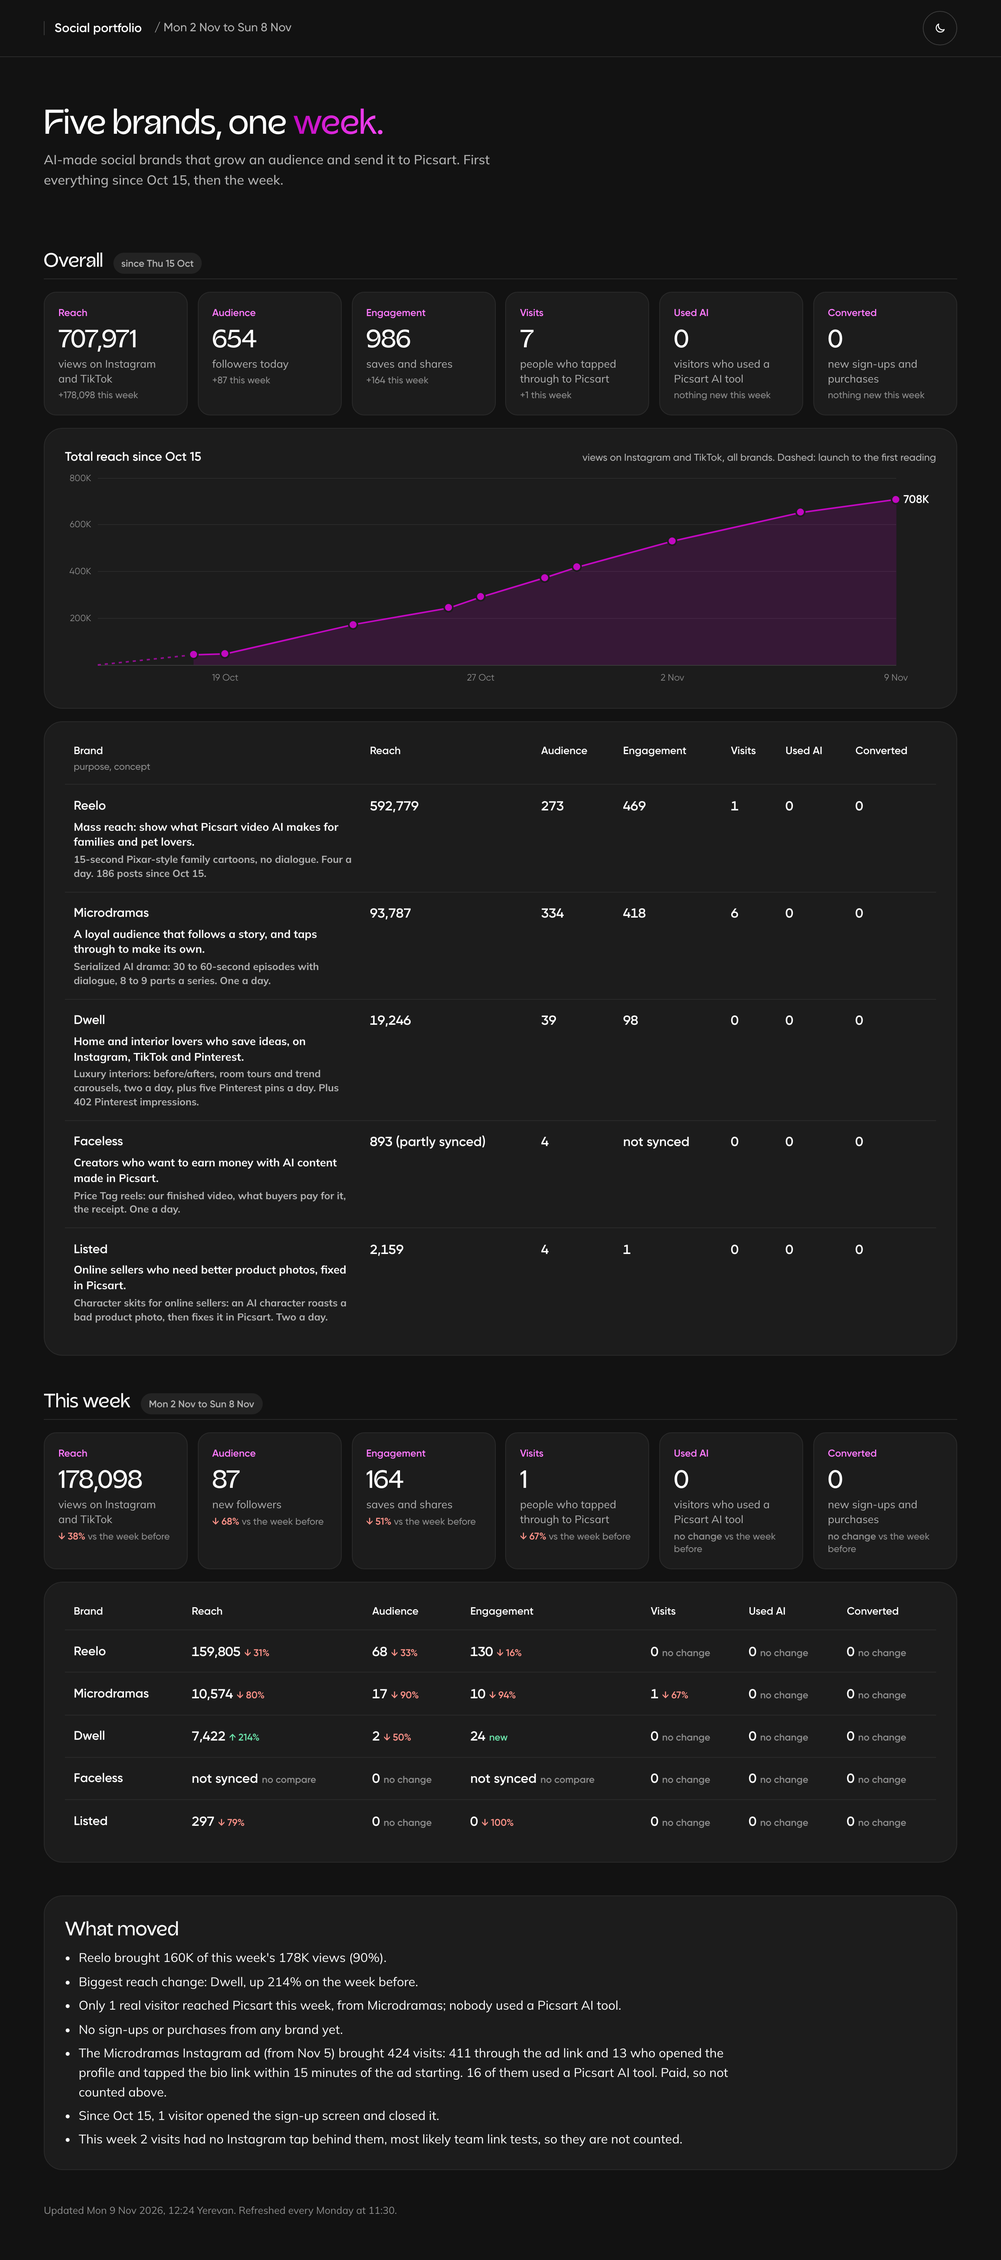
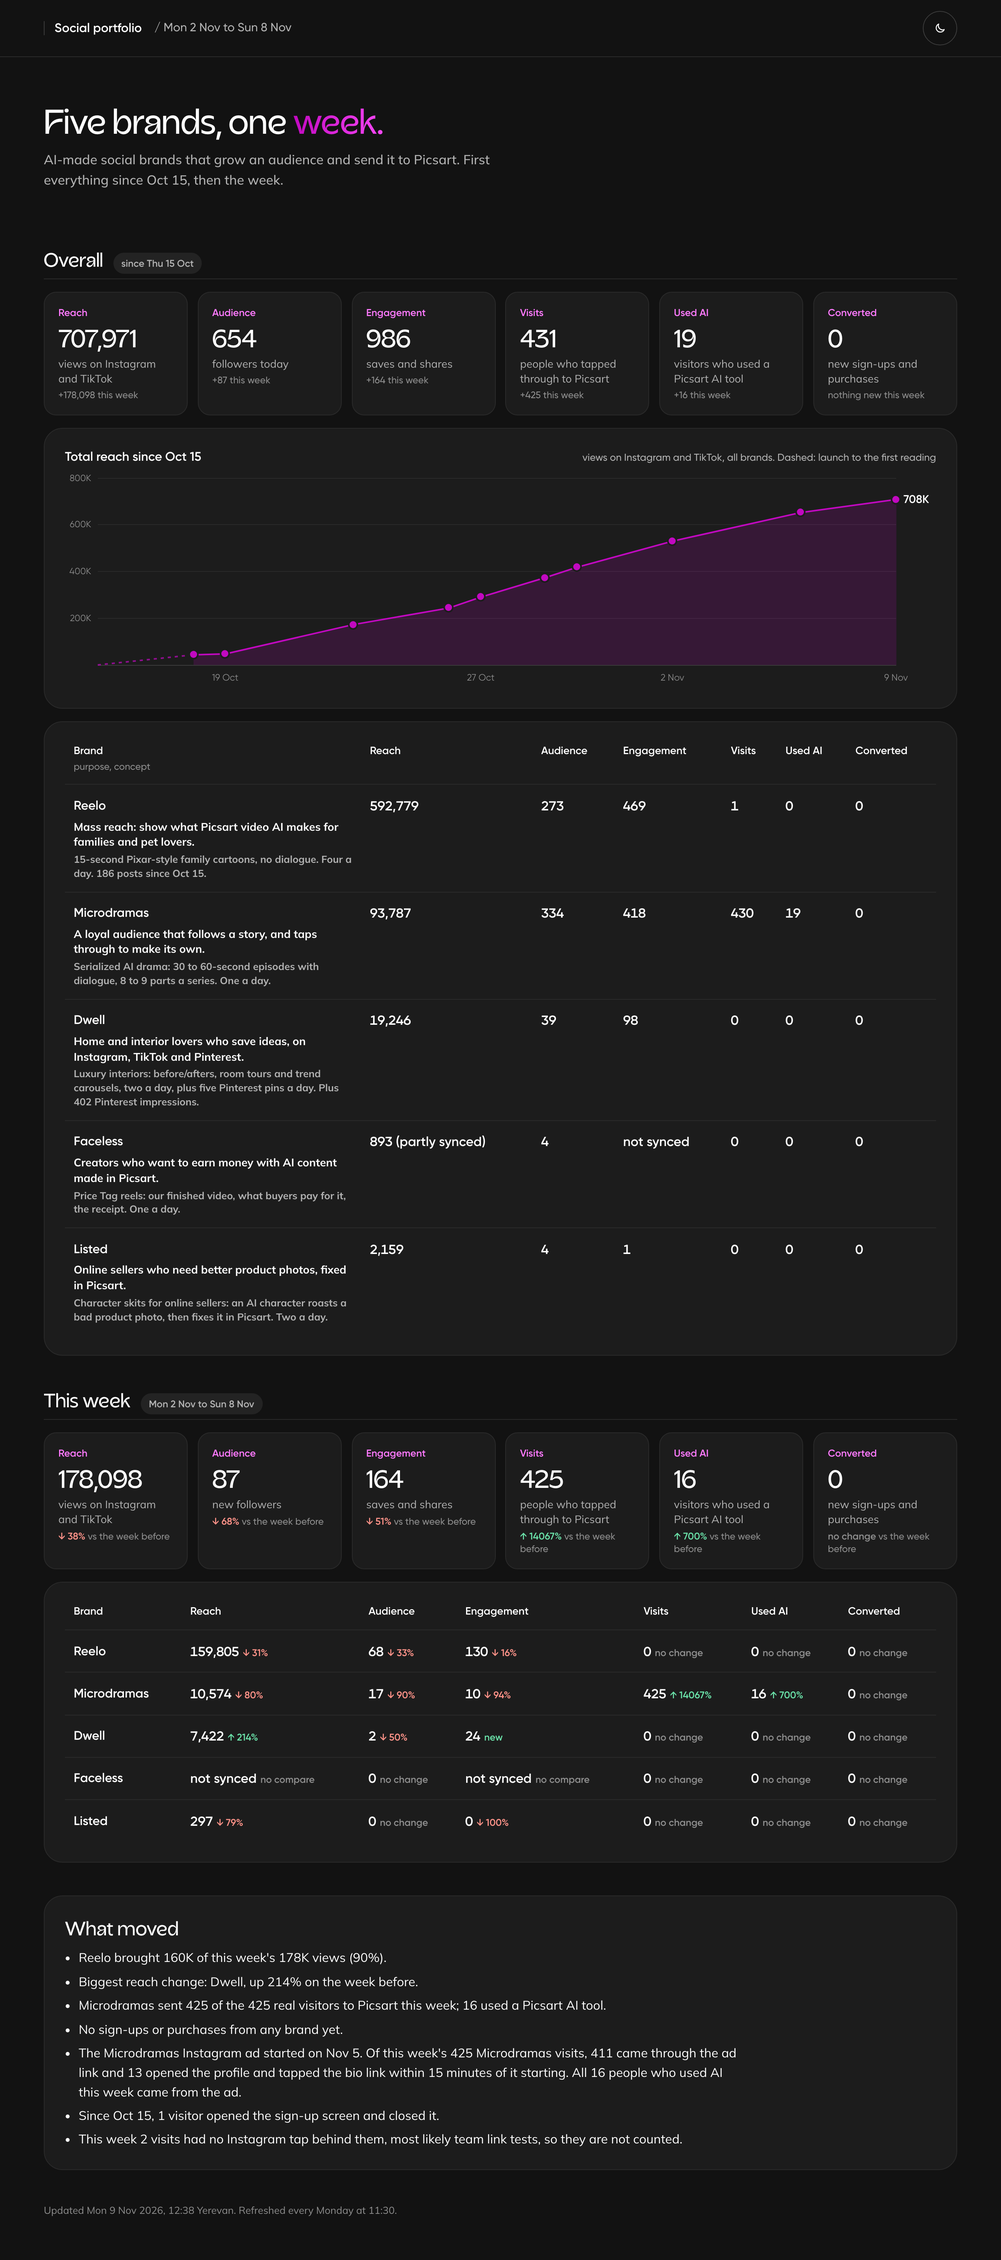
chore(portfolio): weekly refresh 2026-11-09

diff --git a/portfolio/index.html b/portfolio/index.html
@@ -110,7 +110,7 @@ small { display: block; color: var(--faint); font-family: var(--ui); font-weight
 
   <section class="sec" aria-labelledby="o-h">
     <div class="sec-head"><h2 id="o-h">Overall</h2><span class="pill">since Thu 15 Oct</span></div>
-    <div class="stats"><div class="stat"><span class="cls">Reach</span><b>707,971</b><span>views on Instagram and TikTok</span><small>+178,098 this week</small></div><div class="stat"><span class="cls">Audience</span><b>654</b><span>followers today</span><small>+87 this week</small></div><div class="stat"><span class="cls">Engagement</span><b>986</b><span>saves and shares</span><small>+164 this week</small></div><div class="stat"><span class="cls">Visits</span><b>7</b><span>people who tapped through to Picsart</span><small>+1 this week</small></div><div class="stat"><span class="cls">Used AI</span><b>0</b><span>visitors who used a Picsart AI tool</span><small>nothing new this week</small></div><div class="stat"><span class="cls">Converted</span><b>0</b><span>new sign-ups and purchases</span><small>nothing new this week</small></div></div>
+    <div class="stats"><div class="stat"><span class="cls">Reach</span><b>707,971</b><span>views on Instagram and TikTok</span><small>+178,098 this week</small></div><div class="stat"><span class="cls">Audience</span><b>654</b><span>followers today</span><small>+87 this week</small></div><div class="stat"><span class="cls">Engagement</span><b>986</b><span>saves and shares</span><small>+164 this week</small></div><div class="stat"><span class="cls">Visits</span><b>431</b><span>people who tapped through to Picsart</span><small>+425 this week</small></div><div class="stat"><span class="cls">Used AI</span><b>19</b><span>visitors who used a Picsart AI tool</span><small>+16 this week</small></div><div class="stat"><span class="cls">Converted</span><b>0</b><span>new sign-ups and purchases</span><small>nothing new this week</small></div></div>
     <div class="panel chart">
       <div class="chart-head"><h3>Total reach since Oct 15</h3><span class="legend">views on Instagram and TikTok, all brands. Dashed: launch to the first reading</span></div>
       <div class="lc"><div class="plot"><span class="gl" style="top:75.00%"><em>200K</em></span><span class="gl" style="top:50.00%"><em>400K</em></span><span class="gl" style="top:25.00%"><em>600K</em></span><span class="gl" style="top:0.00%"><em>800K</em></span><svg viewBox="0 0 100 100" preserveAspectRatio="none" aria-hidden="true"><polygon points="12.00,100 12.00,94.57 16.00,94.08 32.00,78.43 44.00,69.54 48.00,63.68 56.00,53.35 60.00,47.79 72.00,33.77 88.00,18.51 100.00,11.50 100,100" class="area"/><line x1="0" y1="100" x2="12.00" y2="94.57" class="gap"/><polyline points="12.00,94.57 16.00,94.08 32.00,78.43 44.00,69.54 48.00,63.68 56.00,53.35 60.00,47.79 72.00,33.77 88.00,18.51 100.00,11.50" class="line"/></svg><i class="pt" style="left:12.00%;top:94.57%" title="Sun 18 Oct: 43,455 views since Oct 15"></i><i class="pt" style="left:16.00%;top:94.08%" title="Mon 19 Oct: 47,382 views since Oct 15"></i><i class="pt" style="left:32.00%;top:78.43%" title="Fri 23 Oct: 172,542 views since Oct 15"></i><i class="pt" style="left:44.00%;top:69.54%" title="Mon 26 Oct: 243,696 views since Oct 15"></i><i class="pt" style="left:48.00%;top:63.68%" title="Tue 27 Oct: 290,562 views since Oct 15"></i><i class="pt" style="left:56.00%;top:53.35%" title="Thu 29 Oct: 373,202 views since Oct 15"></i><i class="pt" style="left:60.00%;top:47.79%" title="Fri 30 Oct: 417,714 views since Oct 15"></i><i class="pt" style="left:72.00%;top:33.77%" title="Mon 2 Nov: 529,873 views since Oct 15"></i><i class="pt" style="left:88.00%;top:18.51%" title="Fri 6 Nov: 651,929 views since Oct 15"></i><i class="pt" style="left:100.00%;top:11.50%" title="Mon 9 Nov: 707,971 views since Oct 15"></i><b class="last" style="left:100.00%;top:11.50%">708K</b></div><div class="xl"><span style="left:16.00%">19 Oct</span><span style="left:48.00%">27 Oct</span><span style="left:72.00%">2 Nov</span><span style="left:100.00%">9 Nov</span></div></div>
@@ -118,25 +118,25 @@ small { display: block; color: var(--faint); font-family: var(--ui); font-weight
     <div class="panel tbl">
       <table class="pf pf-all">
         <thead><tr><th scope="col">Brand<small>purpose, concept</small></th><th scope="col">Reach</th><th scope="col">Audience</th><th scope="col">Engagement</th><th scope="col">Visits</th><th scope="col">Used AI</th><th scope="col">Converted</th></tr></thead>
-        <tbody><tr><th scope="row"><span class="bn">Reelo</span><span class="pp">Mass reach: show what Picsart video AI makes for families and pet lovers.</span><span class="cc">15-second Pixar-style family cartoons, no dialogue. Four a day. 186 posts since Oct 15.</span></th><td data-label="Reach"><b class="n">592,779</b></td><td data-label="Audience"><b class="n">273</b></td><td data-label="Engagement"><b class="n">469</b></td><td data-label="Visits"><b class="n">1</b></td><td data-label="Used AI"><b class="n">0</b></td><td data-label="Converted"><b class="n">0</b></td></tr><tr><th scope="row"><span class="bn">Microdramas</span><span class="pp">A loyal audience that follows a story, and taps through to make its own.</span><span class="cc">Serialized AI drama: 30 to 60-second episodes with dialogue, 8 to 9 parts a series. One a day. </span></th><td data-label="Reach"><b class="n">93,787</b></td><td data-label="Audience"><b class="n">334</b></td><td data-label="Engagement"><b class="n">418</b></td><td data-label="Visits"><b class="n">6</b></td><td data-label="Used AI"><b class="n">0</b></td><td data-label="Converted"><b class="n">0</b></td></tr><tr><th scope="row"><span class="bn">Dwell</span><span class="pp">Home and interior lovers who save ideas, on Instagram, TikTok and Pinterest.</span><span class="cc">Luxury interiors: before/afters, room tours and trend carousels, two a day, plus five Pinterest pins a day. Plus 402 Pinterest impressions. </span></th><td data-label="Reach"><b class="n">19,246</b></td><td data-label="Audience"><b class="n">39</b></td><td data-label="Engagement"><b class="n">98</b></td><td data-label="Visits"><b class="n">0</b></td><td data-label="Used AI"><b class="n">0</b></td><td data-label="Converted"><b class="n">0</b></td></tr><tr><th scope="row"><span class="bn">Faceless</span><span class="pp">Creators who want to earn money with AI content made in Picsart.</span><span class="cc">Price Tag reels: our finished video, what buyers pay for it, the receipt. One a day. </span></th><td data-label="Reach"><b class="n">893 (partly synced)</b></td><td data-label="Audience"><b class="n">4</b></td><td data-label="Engagement"><b class="n">not synced</b></td><td data-label="Visits"><b class="n">0</b></td><td data-label="Used AI"><b class="n">0</b></td><td data-label="Converted"><b class="n">0</b></td></tr><tr><th scope="row"><span class="bn">Listed</span><span class="pp">Online sellers who need better product photos, fixed in Picsart.</span><span class="cc">Character skits for online sellers: an AI character roasts a bad product photo, then fixes it in Picsart. Two a day. </span></th><td data-label="Reach"><b class="n">2,159</b></td><td data-label="Audience"><b class="n">4</b></td><td data-label="Engagement"><b class="n">1</b></td><td data-label="Visits"><b class="n">0</b></td><td data-label="Used AI"><b class="n">0</b></td><td data-label="Converted"><b class="n">0</b></td></tr></tbody>
+        <tbody><tr><th scope="row"><span class="bn">Reelo</span><span class="pp">Mass reach: show what Picsart video AI makes for families and pet lovers.</span><span class="cc">15-second Pixar-style family cartoons, no dialogue. Four a day. 186 posts since Oct 15.</span></th><td data-label="Reach"><b class="n">592,779</b></td><td data-label="Audience"><b class="n">273</b></td><td data-label="Engagement"><b class="n">469</b></td><td data-label="Visits"><b class="n">1</b></td><td data-label="Used AI"><b class="n">0</b></td><td data-label="Converted"><b class="n">0</b></td></tr><tr><th scope="row"><span class="bn">Microdramas</span><span class="pp">A loyal audience that follows a story, and taps through to make its own.</span><span class="cc">Serialized AI drama: 30 to 60-second episodes with dialogue, 8 to 9 parts a series. One a day. </span></th><td data-label="Reach"><b class="n">93,787</b></td><td data-label="Audience"><b class="n">334</b></td><td data-label="Engagement"><b class="n">418</b></td><td data-label="Visits"><b class="n">430</b></td><td data-label="Used AI"><b class="n">19</b></td><td data-label="Converted"><b class="n">0</b></td></tr><tr><th scope="row"><span class="bn">Dwell</span><span class="pp">Home and interior lovers who save ideas, on Instagram, TikTok and Pinterest.</span><span class="cc">Luxury interiors: before/afters, room tours and trend carousels, two a day, plus five Pinterest pins a day. Plus 402 Pinterest impressions. </span></th><td data-label="Reach"><b class="n">19,246</b></td><td data-label="Audience"><b class="n">39</b></td><td data-label="Engagement"><b class="n">98</b></td><td data-label="Visits"><b class="n">0</b></td><td data-label="Used AI"><b class="n">0</b></td><td data-label="Converted"><b class="n">0</b></td></tr><tr><th scope="row"><span class="bn">Faceless</span><span class="pp">Creators who want to earn money with AI content made in Picsart.</span><span class="cc">Price Tag reels: our finished video, what buyers pay for it, the receipt. One a day. </span></th><td data-label="Reach"><b class="n">893 (partly synced)</b></td><td data-label="Audience"><b class="n">4</b></td><td data-label="Engagement"><b class="n">not synced</b></td><td data-label="Visits"><b class="n">0</b></td><td data-label="Used AI"><b class="n">0</b></td><td data-label="Converted"><b class="n">0</b></td></tr><tr><th scope="row"><span class="bn">Listed</span><span class="pp">Online sellers who need better product photos, fixed in Picsart.</span><span class="cc">Character skits for online sellers: an AI character roasts a bad product photo, then fixes it in Picsart. Two a day. </span></th><td data-label="Reach"><b class="n">2,159</b></td><td data-label="Audience"><b class="n">4</b></td><td data-label="Engagement"><b class="n">1</b></td><td data-label="Visits"><b class="n">0</b></td><td data-label="Used AI"><b class="n">0</b></td><td data-label="Converted"><b class="n">0</b></td></tr></tbody>
       </table>
     </div>
   </section>
 
   <section class="sec" aria-labelledby="w-h">
     <div class="sec-head"><h2 id="w-h">This week</h2><span class="pill">Mon 2 Nov to Sun 8 Nov</span></div>
-    <div class="stats"><div class="stat"><span class="cls">Reach</span><b>178,098</b><span>views on Instagram and TikTok</span><small><span class="wow down">&darr; 38%</span> vs the week before</small></div><div class="stat"><span class="cls">Audience</span><b>87</b><span>new followers</span><small><span class="wow down">&darr; 68%</span> vs the week before</small></div><div class="stat"><span class="cls">Engagement</span><b>164</b><span>saves and shares</span><small><span class="wow down">&darr; 51%</span> vs the week before</small></div><div class="stat"><span class="cls">Visits</span><b>1</b><span>people who tapped through to Picsart</span><small><span class="wow down">&darr; 67%</span> vs the week before</small></div><div class="stat"><span class="cls">Used AI</span><b>0</b><span>visitors who used a Picsart AI tool</span><small><span class="wow">no change</span> vs the week before</small></div><div class="stat"><span class="cls">Converted</span><b>0</b><span>new sign-ups and purchases</span><small><span class="wow">no change</span> vs the week before</small></div></div>
+    <div class="stats"><div class="stat"><span class="cls">Reach</span><b>178,098</b><span>views on Instagram and TikTok</span><small><span class="wow down">&darr; 38%</span> vs the week before</small></div><div class="stat"><span class="cls">Audience</span><b>87</b><span>new followers</span><small><span class="wow down">&darr; 68%</span> vs the week before</small></div><div class="stat"><span class="cls">Engagement</span><b>164</b><span>saves and shares</span><small><span class="wow down">&darr; 51%</span> vs the week before</small></div><div class="stat"><span class="cls">Visits</span><b>425</b><span>people who tapped through to Picsart</span><small><span class="wow up">&uarr; 14067%</span> vs the week before</small></div><div class="stat"><span class="cls">Used AI</span><b>16</b><span>visitors who used a Picsart AI tool</span><small><span class="wow up">&uarr; 700%</span> vs the week before</small></div><div class="stat"><span class="cls">Converted</span><b>0</b><span>new sign-ups and purchases</span><small><span class="wow">no change</span> vs the week before</small></div></div>
     <div class="panel tbl">
       <table class="pf pf-week">
         <thead><tr><th scope="col">Brand</th><th scope="col">Reach</th><th scope="col">Audience</th><th scope="col">Engagement</th><th scope="col">Visits</th><th scope="col">Used AI</th><th scope="col">Converted</th></tr></thead>
-        <tbody><tr><th scope="row"><span class="bn">Reelo</span></th><td data-label="Reach"><b class="n">159,805</b><span class="wow down">&darr; 31%</span></td><td data-label="Audience"><b class="n">68</b><span class="wow down">&darr; 33%</span></td><td data-label="Engagement"><b class="n">130</b><span class="wow down">&darr; 16%</span></td><td data-label="Visits"><b class="n">0</b><span class="wow">no change</span></td><td data-label="Used AI"><b class="n">0</b><span class="wow">no change</span></td><td data-label="Converted"><b class="n">0</b><span class="wow">no change</span></td></tr><tr><th scope="row"><span class="bn">Microdramas</span></th><td data-label="Reach"><b class="n">10,574</b><span class="wow down">&darr; 80%</span></td><td data-label="Audience"><b class="n">17</b><span class="wow down">&darr; 90%</span></td><td data-label="Engagement"><b class="n">10</b><span class="wow down">&darr; 94%</span></td><td data-label="Visits"><b class="n">1</b><span class="wow down">&darr; 67%</span></td><td data-label="Used AI"><b class="n">0</b><span class="wow">no change</span></td><td data-label="Converted"><b class="n">0</b><span class="wow">no change</span></td></tr><tr><th scope="row"><span class="bn">Dwell</span></th><td data-label="Reach"><b class="n">7,422</b><span class="wow up">&uarr; 214%</span></td><td data-label="Audience"><b class="n">2</b><span class="wow down">&darr; 50%</span></td><td data-label="Engagement"><b class="n">24</b><span class="wow up">new</span></td><td data-label="Visits"><b class="n">0</b><span class="wow">no change</span></td><td data-label="Used AI"><b class="n">0</b><span class="wow">no change</span></td><td data-label="Converted"><b class="n">0</b><span class="wow">no change</span></td></tr><tr><th scope="row"><span class="bn">Faceless</span></th><td data-label="Reach"><b class="n">not synced</b><span class="wow">no compare</span></td><td data-label="Audience"><b class="n">0</b><span class="wow">no change</span></td><td data-label="Engagement"><b class="n">not synced</b><span class="wow">no compare</span></td><td data-label="Visits"><b class="n">0</b><span class="wow">no change</span></td><td data-label="Used AI"><b class="n">0</b><span class="wow">no change</span></td><td data-label="Converted"><b class="n">0</b><span class="wow">no change</span></td></tr><tr><th scope="row"><span class="bn">Listed</span></th><td data-label="Reach"><b class="n">297</b><span class="wow down">&darr; 79%</span></td><td data-label="Audience"><b class="n">0</b><span class="wow">no change</span></td><td data-label="Engagement"><b class="n">0</b><span class="wow down">&darr; 100%</span></td><td data-label="Visits"><b class="n">0</b><span class="wow">no change</span></td><td data-label="Used AI"><b class="n">0</b><span class="wow">no change</span></td><td data-label="Converted"><b class="n">0</b><span class="wow">no change</span></td></tr></tbody>
+        <tbody><tr><th scope="row"><span class="bn">Reelo</span></th><td data-label="Reach"><b class="n">159,805</b><span class="wow down">&darr; 31%</span></td><td data-label="Audience"><b class="n">68</b><span class="wow down">&darr; 33%</span></td><td data-label="Engagement"><b class="n">130</b><span class="wow down">&darr; 16%</span></td><td data-label="Visits"><b class="n">0</b><span class="wow">no change</span></td><td data-label="Used AI"><b class="n">0</b><span class="wow">no change</span></td><td data-label="Converted"><b class="n">0</b><span class="wow">no change</span></td></tr><tr><th scope="row"><span class="bn">Microdramas</span></th><td data-label="Reach"><b class="n">10,574</b><span class="wow down">&darr; 80%</span></td><td data-label="Audience"><b class="n">17</b><span class="wow down">&darr; 90%</span></td><td data-label="Engagement"><b class="n">10</b><span class="wow down">&darr; 94%</span></td><td data-label="Visits"><b class="n">425</b><span class="wow up">&uarr; 14067%</span></td><td data-label="Used AI"><b class="n">16</b><span class="wow up">&uarr; 700%</span></td><td data-label="Converted"><b class="n">0</b><span class="wow">no change</span></td></tr><tr><th scope="row"><span class="bn">Dwell</span></th><td data-label="Reach"><b class="n">7,422</b><span class="wow up">&uarr; 214%</span></td><td data-label="Audience"><b class="n">2</b><span class="wow down">&darr; 50%</span></td><td data-label="Engagement"><b class="n">24</b><span class="wow up">new</span></td><td data-label="Visits"><b class="n">0</b><span class="wow">no change</span></td><td data-label="Used AI"><b class="n">0</b><span class="wow">no change</span></td><td data-label="Converted"><b class="n">0</b><span class="wow">no change</span></td></tr><tr><th scope="row"><span class="bn">Faceless</span></th><td data-label="Reach"><b class="n">not synced</b><span class="wow">no compare</span></td><td data-label="Audience"><b class="n">0</b><span class="wow">no change</span></td><td data-label="Engagement"><b class="n">not synced</b><span class="wow">no compare</span></td><td data-label="Visits"><b class="n">0</b><span class="wow">no change</span></td><td data-label="Used AI"><b class="n">0</b><span class="wow">no change</span></td><td data-label="Converted"><b class="n">0</b><span class="wow">no change</span></td></tr><tr><th scope="row"><span class="bn">Listed</span></th><td data-label="Reach"><b class="n">297</b><span class="wow down">&darr; 79%</span></td><td data-label="Audience"><b class="n">0</b><span class="wow">no change</span></td><td data-label="Engagement"><b class="n">0</b><span class="wow down">&darr; 100%</span></td><td data-label="Visits"><b class="n">0</b><span class="wow">no change</span></td><td data-label="Used AI"><b class="n">0</b><span class="wow">no change</span></td><td data-label="Converted"><b class="n">0</b><span class="wow">no change</span></td></tr></tbody>
       </table>
     </div>
   </section>
 
-  <section class="panel moved" aria-labelledby="m-h"><h2 id="m-h">What moved</h2><ul><li>Reelo brought 160K of this week&#x27;s 178K views (90%).</li><li>Biggest reach change: Dwell, up 214% on the week before.</li><li>Only 1 real visitor reached Picsart this week, from Microdramas; nobody used a Picsart AI tool.</li><li>No sign-ups or purchases from any brand yet.</li><li>The Microdramas Instagram ad (from Nov 5) brought 424 visits: 411 through the ad link and 13 who opened the profile and tapped the bio link within 15 minutes of the ad starting. 16 of them used a Picsart AI tool. Paid, so not counted above.</li><li>Since Oct 15, 1 visitor opened the sign-up screen and closed it.</li><li>This week 2 visits had no Instagram tap behind them, most likely team link tests, so they are not counted.</li></ul></section>
+  <section class="panel moved" aria-labelledby="m-h"><h2 id="m-h">What moved</h2><ul><li>Reelo brought 160K of this week&#x27;s 178K views (90%).</li><li>Biggest reach change: Dwell, up 214% on the week before.</li><li>Microdramas sent 425 of the 425 real visitors to Picsart this week; 16 used a Picsart AI tool.</li><li>No sign-ups or purchases from any brand yet.</li><li>The Microdramas Instagram ad started on Nov 5. Of this week&#x27;s 425 Microdramas visits, 411 came through the ad link and 13 opened the profile and tapped the bio link within 15 minutes of it starting. All 16 people who used AI this week came from the ad.</li><li>Since Oct 15, 1 visitor opened the sign-up screen and closed it.</li><li>This week 2 visits had no Instagram tap behind them, most likely team link tests, so they are not counted.</li></ul></section>
   <footer class="foot">
-    <p>Updated Mon 9 Nov 2026, 12:24 Yerevan. Refreshed every Monday at 11:30.</p>
+    <p>Updated Mon 9 Nov 2026, 12:38 Yerevan. Refreshed every Monday at 11:30.</p>
   </footer>
 </main>
 <script>
